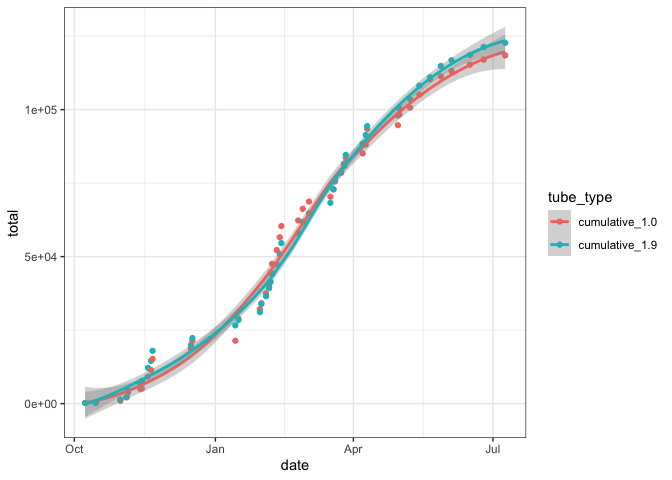
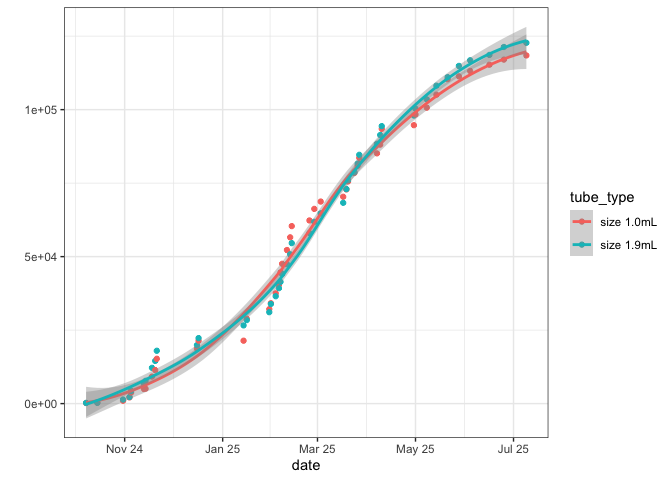
figure edits

diff --git a/README.md b/README.md
@@ -108,7 +108,10 @@ Plot rate of accessioning over time:
 
 ``` r
 library(ggplot2)
-ggplot(historical_data_long, aes(x=date, y=total, colour=tube_type)) + geom_point() + geom_smooth() + theme_bw()
+ggplot(historical_data_long, aes(x=date, y=total, colour=tube_type)) + geom_point() + geom_smooth() + theme_bw() + ylab("Cumulative Tubes Submitted to BioStore") + ylab("") + scale_x_date(
+    date_breaks = "2 month",
+    date_labels = "%b %y" # Month abbreviation and day
+  )
 #> `geom_smooth()` using method = 'loess' and formula = 'y ~ x'
 ```
 
